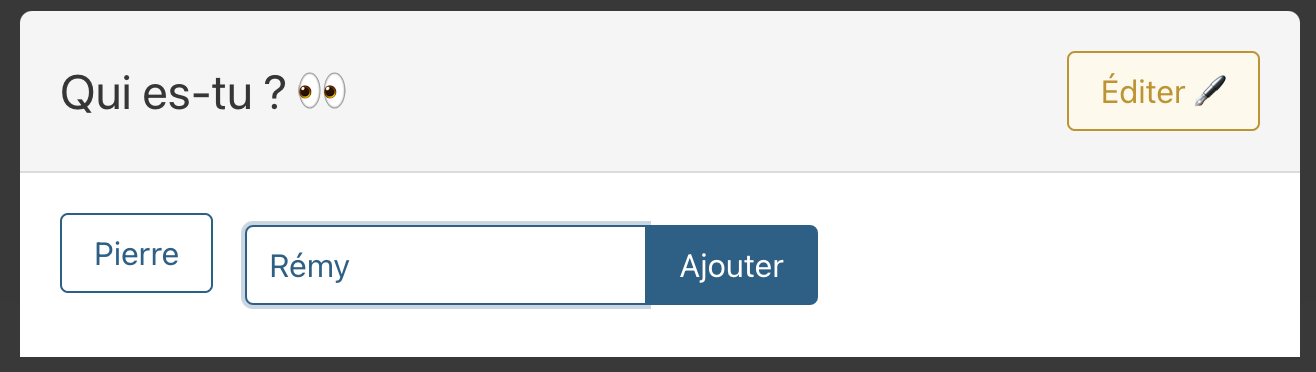
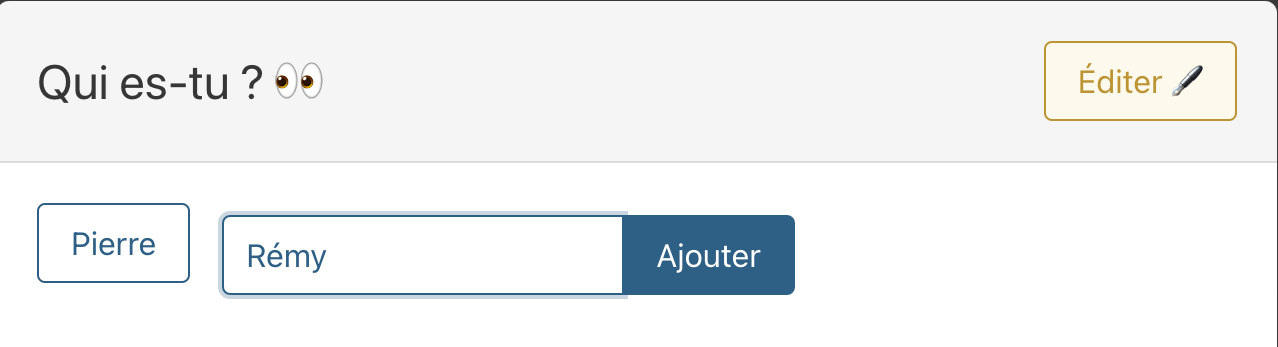
refactor: resize images

Changed region(s): [[0.0, 0.0, 1.0, 1.0], [0.4883, 0.6916, 0.6103, 0.7781]]

diff --git a/README.md b/README.md
@@ -22,43 +22,43 @@ This guide will help you easily create and manage your first events on our "Plan
 
 Give your event a title to make it easily identifiable by you and other participants.
 
-![Define Title](docs/images/define_title.png)
+<img src="docs/images/define_title.png" alt="Define Title" width="350"/>
 
 #### 1.2 - Add **_Participants_**
 
 Add participants by entering their first names or nicknames.
 
-![Add Participant](docs/images/add_participant.png)
+<img src="docs/images/add_participant.png" alt="Add Participant" width="350"/>
 
 #### 1.3 - Identify Yourself
 
 Specify who you are so that you can perform actions on the event.
 
-![Choose Participant](docs/images/choose_participant.png)
+<img src="docs/images/choose_participant.png" alt="Choose Participant" width="350"/>
 
 #### 1.4 - Define a **_Description_**
 
 Add a brief description to give participants an idea of what the event is about.
 
-![Define Description](docs/images/define_description.png)
+<img src="docs/images/define_description.png" alt="Define Description" width="350"/>
 
 #### 1.5 - Define a **_Duration_**
 
 Add a duration to give participants an idea of how long the event will last.
 
-![Define Duration](docs/images/define_duration.png)
+<img src="docs/images/define_duration.png" alt="Define Duration" width="350"/>
 
 #### 1.6 - **_Share_** the Event
 
 Copy and share the event link with other participants.
 
-![Share Event](docs/images/share_event.png)
+<img src="docs/images/share_event.png" alt="Share Event" width="350"/>
 
 #### 1.7 - **_Delete_** a Participant
 
 Copy and share the event link with other participants.
 
-![Delete Participant](docs/images/delete_participant.png)
+<img src="docs/images/delete_participant.png" alt="Delete Participant" width="350"/>
 
 ### 2 - Interact with the Event
 
@@ -66,19 +66,19 @@ Copy and share the event link with other participants.
 
 Suggest various destinations and invite participants to vote for their favorites.
 
-![Add Destination](docs/images/add_destination.png)
+<img src="docs/images/add_destination.png" alt="Add Destination" width="350"/>
 
 #### 2.2 - Vote for Each **_Destination_**
 
 Vote for each suggested destination.
 
-![Vote Destination](docs/images/vote_destination.png)
+<img src="docs/images/vote_destination.png" alt="Vote Destination" width="350"/>
 
 #### 2.3 - Add a **_Time Slot_**
 
 Indicate your availability and invite participants to do the same to find the best time for everyone.
 
-![Add Time Slot](docs/images/add_creneau.png)
+<img src="docs/images/add_creneau.png" alt="Add Time Slot" width="350"/>
 
 ### 3 - View the Results
 
@@ -86,95 +86,95 @@ Indicate your availability and invite participants to do the same to find the be
 
 The system displays the top 3 destinations that received the most votes to facilitate your final choice.
 
-![Display Best Destination](docs/images/display_best_creneau.png)
+<img src="" alt="Display Best Destination" widtalt="Display Besth="350"/>
 
 #### 3.2 - View the Best **_Time Slot_**
 
 Find out which time slots are most suitable for the group by looking at the top 3 time slots that received the most votes.
 
-![Display Best Time Slot](docs/images/display_best_creneau.png)
+<img src="" alt="Display Best Time Slotalt="Display Best" width="350"/>)
 
 ## 📒 `Guide d'utilisation - fr`
 
 Ce guide vous permettra de créer et de gérer facilement vos premiers événements sur notre application "Plan & Vote", optimisant ainsi vos vacances en groupe.
 
-### 1 - Créer un Événement
+### 1 - Créer un Événement ⛺
 
 #### 1.1 - Définir un **_titre_**
 
 Donnez un titre à votre événement pour qu'il soit facilement identifiable par vous et les autres participants.
 
-![Define Title](docs/images/define_title.png)
+<img src="docs/images/define_title.png" alt="Define Title" width="350"/>
 
 #### 1.2 - Ajouter des **_participants_**
 
 Ajoute des participants en entrant leurs prénoms ou surnoms.
 
-![Add Participant](docs/images/add_participant.png)
+<img src="docs/images/add_participant.png" alt="Add Participant" width="350"/>
 
 #### 1.3 - Identifie toi
 
 Indique qui tu es pour pouvoir effectuer des actions sur l'événement.
 
-![Choose Participant](docs/images/choose_participant.png)
+<img src="docs/images/choose_participant.png" alt="Choose Participant" width="350"/>
 
 #### 1.4 - Définir une **_description_**
 
 Ajoutez une brève description pour donner aux participants une idée de ce que l'événement concerne.
 
-![Define Description](docs/images/define_description.png)
+<img src="docs/images/define_description.png" alt="Define Description" width="250"/>
 
 #### 1.5 - Définir une **_durée_**
 
 Ajoutez une durée pour donner aux participants une idée de la durée de l'événement.
 
-![Define Duration](docs/images/define_duration.png)
+<img src="docs/images/define_duration.png" alt="Define Duration" width="250"/>
 
 #### 1.6 - **_Partager_** l'événement
 
 Copiez et partagez le lien de l'événement avec les autres participants.
 
-![Share Event](docs/images/share_event.png)
+<img src="docs/images/share_event.png" alt="Share Event" width="100" />
 
 #### 1.7 - **_Supprimer_** un participant
 
 Retirer un participant.
 
-![Delete Participant](docs/images/delete_participant.png)
+<img src="docs/images/delete_participant.png" alt="Delete Participant" width="350"/>
 
-### 2 - Interagir avec l'Événement
+### 2 - Interagir avec l'Événement 🏝
 
 #### 2.1 - Ajout de **_destination_**
 
 Proposez différentes destinations et invitez les participants à voter pour leurs préférées.
 
-![Add Destination](docs/images/add_destination.png)
+<img src="docs/images/add_destination.png" alt="Add Destination" width="250"/>
 
 #### 2.2 - Vote pour chaque **_destination_**
 
 Votez pour chaque destinations ayant été suggérés.
 
-![Vote Destination](docs/images/vote_destination.png)
+<img src="docs/images/vote_destination.png" alt="Vote Destination" width="150"/>
 
 #### 2.3 - Ajoutez un **_créneau_**
 
 Indiquez vos disponibilités et invitez les participants à faire de même pour trouver le meilleur moment pour tous.
 
-![Add Creneau](docs/images/add_creneau.png)
+<img src="docs/images/add_creneau.png" alt="Add Creneau" width="250"/>
 
-### 3 - Consulter le Résultat
+### 3 - Consulter le Résultat 🥇
 
 #### 3.1 - Visualisation de la meilleure **_destination_**
 
 Le système affiche le top 3 des destinations ayant reçu le plus de votes pour faciliter votre choix final.
 
-![DIsplay Best Destination](docs/images/display_best_creneau.png)
+<img src="docs/images/display_best_destination" alt="Display Best Destination" width="350"/>
 
 #### 3.2 - Visualisation du meilleur **_créneau_**
 
 Découvrez quelles sont les plages horaires qui conviennent le mieux au groupe en consultant le top 3 des créneaux ayant reçu le plus de votes.
 
-![Display Best Creneau](docs/images/display_best_creneau.png)
+<img src="docs/images/display_best_creneau.png" alt="Display Best Creneau" width="350"/>
 
 #
 
